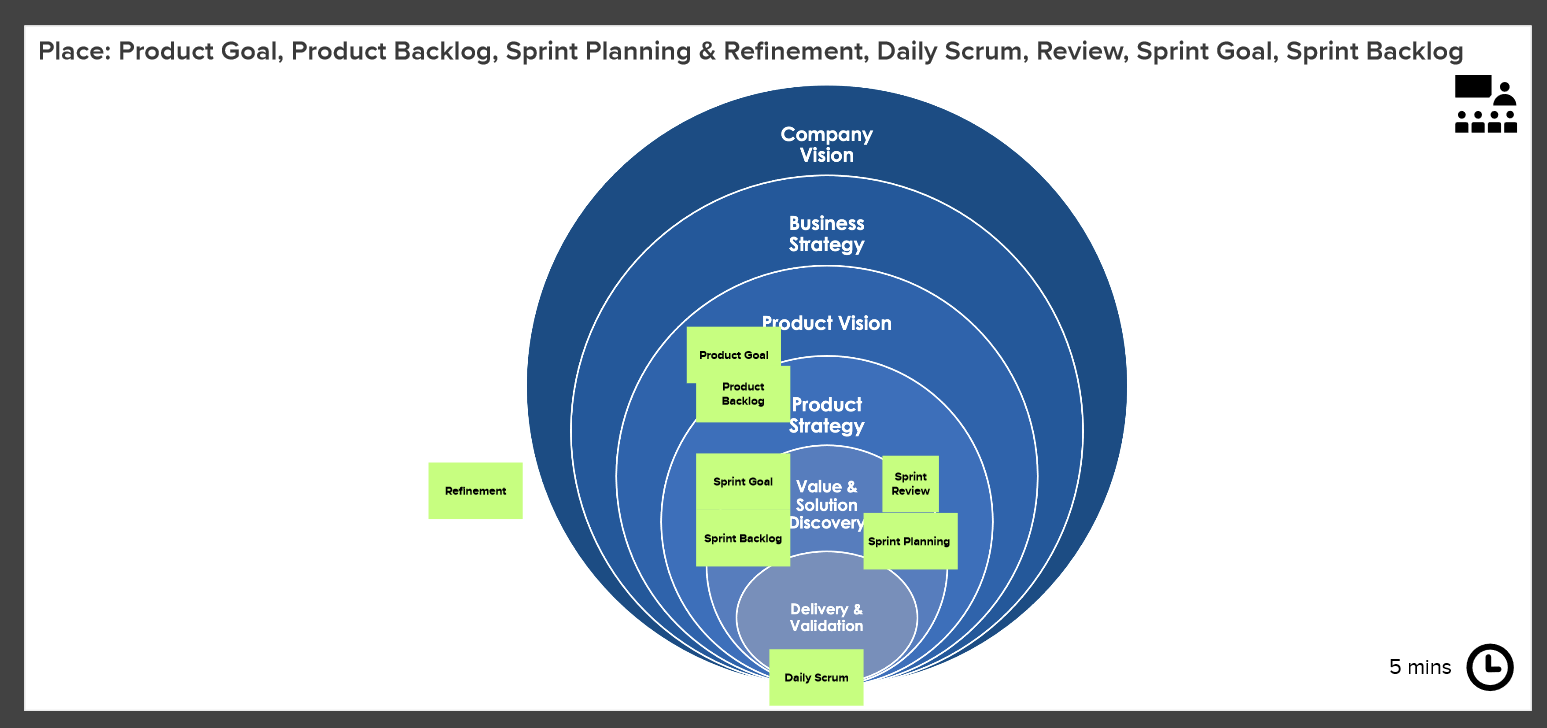
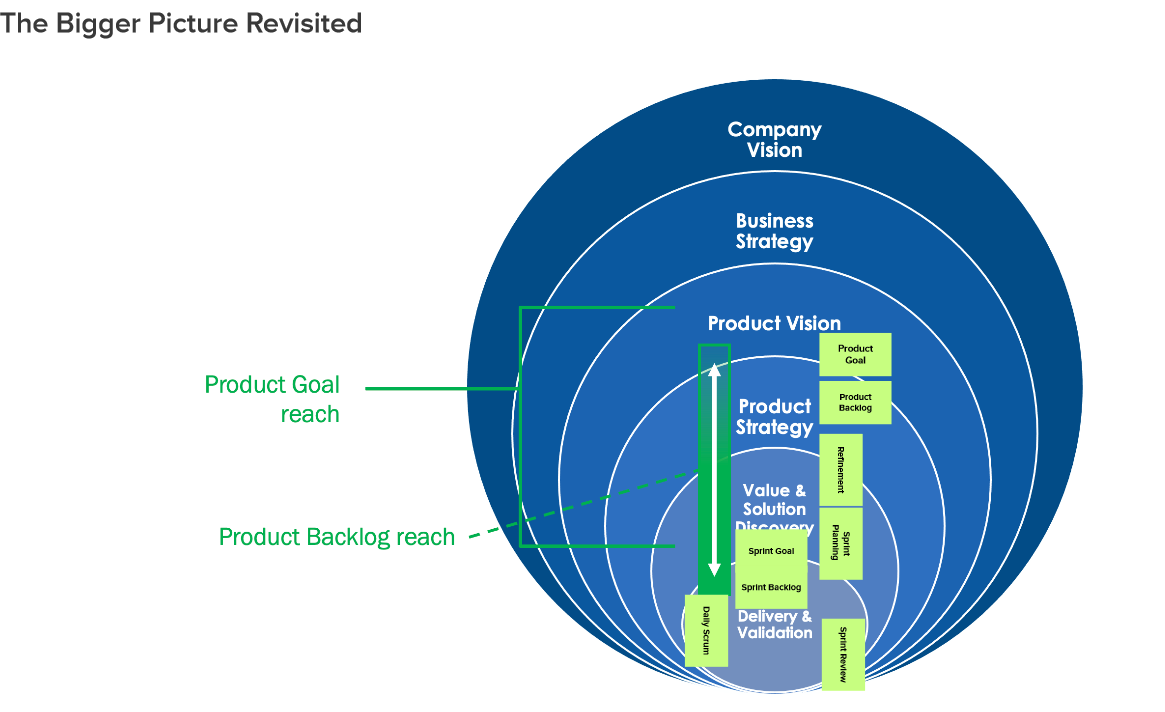
PSPO: day 2: continued

diff --git a/BeenThereSeenThat/202103_PSPO_Scrum_Seminar/README.md b/BeenThereSeenThat/202103_PSPO_Scrum_Seminar/README.md
@@ -341,17 +341,24 @@ Kachel 31
 * product goal ist zukünftiger zustand des produktes, welches einen gewissen nutzen bringt
 * ursprüngliche idee zu einem bearbeitbaren zustand zu bringen, ist refinement
 * check which markers are assigned to which meeting: review or retro
-* die definition of done gilt für das gesamte produkt
-* Akzeptanzkriterien haben eher funktionalen fokus, DoD hat qualitativen Fokus; daher nur eine DoD
+* die definition of done gilt für das gesamte Produkt
+* Akzeptanzkriterien haben eher funktionalen Fokus, DoD hat qualitativen Fokus; daher nur eine DoD
 * übergreifendes Team kann eine grundlegende DoD haben, die das Minimum beschreibt
 * darauf aufbauend zusätzlich haben Fachbereiche eventuell eine eigene DoD (zusätzlich)
 * Status meeting for the steering commitee: nein, gibt es nicht* interesse-power-matrix; stakeholder-analyse
 * Projektgovernance: <https://www.agile-academy.com/de/scrum-master/project-governance-und-scrum/>
-* verhindern, dass ein daily scrum zum statusmeeting wird
+* verhindern, dass ein daily scrum zum Statusmeeting wird
 [break]
 
 ## breakout: place different items to the product onion:
 ![](screen25.png)
+* different topics about the role of the product owner: <https://medium.com/the-value-maximizers>
+* metrics im Sinne von Value
+* ein Productgoal, was man verfolgt, nicht fünf gleichzeitig
 
+[missing part of the session]
+### refinement: Elefantencarpaccio
+* in Ordnung, wenn Devs bis zu 10% der Zeit in Refinement verbringen
+![](screen27.png)
 
 
